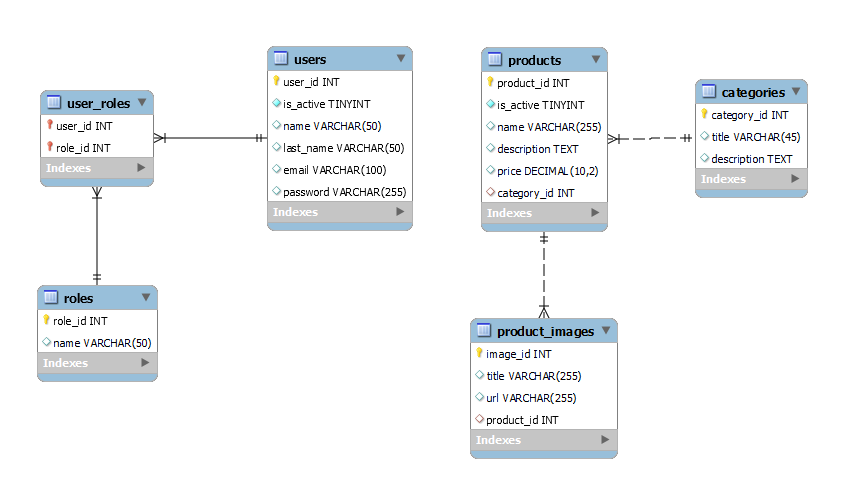
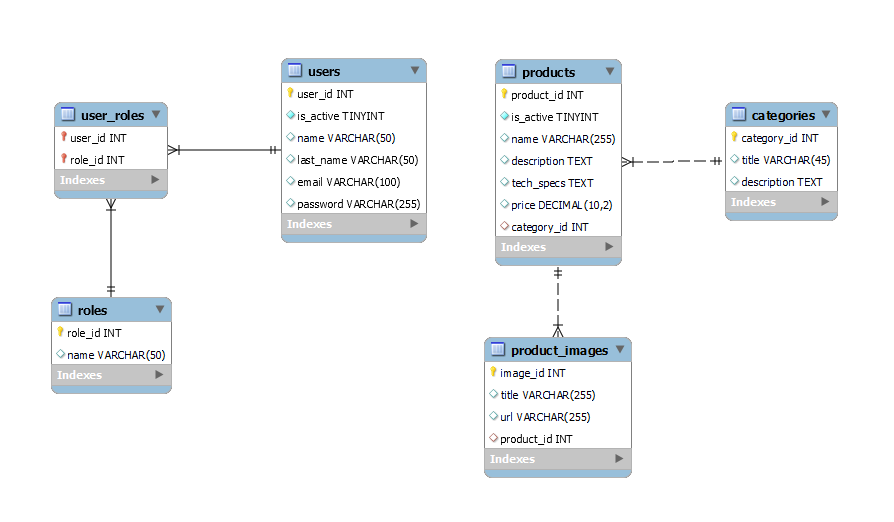
Actualización Final BackEnd Sprint 1

Changed region(s): [[0.5164, 0.0911, 0.9416, 0.9413], [0.0304, 0.1822, 0.2126, 0.7895], [0.1822, 0.0911, 0.486, 0.4858]]

diff --git a/PI-C3-G4/back_end/src/main/java/com/ctdg4/ProThechnics/controller/ProductController.java b/PI-C3-G4/back_end/src/main/java/com/ctdg4/ProThechnics/controller/ProductController.java
@@ -1,6 +1,7 @@
 package com.ctdg4.ProThechnics.controller;
 
 import com.ctdg4.ProThechnics.entity.Product;
+import com.ctdg4.ProThechnics.exception.DuplicateProductException;
 import com.ctdg4.ProThechnics.exception.ResourceNotFoundException;
 import com.ctdg4.ProThechnics.service.ProductService;
 import org.springframework.beans.factory.annotation.Autowired;
@@ -21,12 +22,16 @@ public class ProductController {
         this.productService = productService;
     }
 
-    @PostMapping
-    public ResponseEntity<Product> registerProduct(@RequestBody Product product) {
+    @PostMapping("/add")
+    public ResponseEntity<Product> registerProduct(@RequestBody Product product) throws DuplicateProductException {
+        List<Product> existingProduct = productService.findProductByNameLike(product.getName());
+        if (!existingProduct.isEmpty()) {
+            throw new DuplicateProductException("Product with name: '" + product.getName() + "' already exists.");
+        }
         return ResponseEntity.ok(productService.saveProduct(product));
     }
 
-    @GetMapping()
+    @GetMapping("/find/all")
     public ResponseEntity<List<Product>> listProducts() {
         return ResponseEntity.ok(productService.listAllProducts());
     }
@@ -37,11 +42,11 @@ public class ProductController {
     }
 
     @GetMapping("/find/name/{name}")
-    public ResponseEntity<Optional<Product>> findProductByEmail(@PathVariable String name) {
-        return ResponseEntity.ok(productService.findProductByName(name));
+    public ResponseEntity<List<Product>> findProductByEmail(@PathVariable String name) {
+        return ResponseEntity.ok(productService.findProductByNameLike(name));
     }
 
-    @DeleteMapping("/{id}")
+    @DeleteMapping("/delete/id/{product_id}")
     public ResponseEntity<String> deleteProduct(@PathVariable Long product_id) throws ResourceNotFoundException {
         Optional<Product> productSearched = productService.findProductById(product_id);
         if (productSearched.isPresent()) {
@@ -52,7 +57,7 @@ public class ProductController {
         }
     }
 
-    @PutMapping
+    @PutMapping("/update")
     public ResponseEntity<String> updateProduct(@RequestBody Product product) throws ResourceNotFoundException {
         Optional<Product> productSearched = productService.findProductById(product.getProduct_id());
         if (productSearched.isPresent()) {

diff --git a/PI-C3-G4/back_end/src/main/java/com/ctdg4/ProThechnics/service/ProductService.java b/PI-C3-G4/back_end/src/main/java/com/ctdg4/ProThechnics/service/ProductService.java
@@ -1,6 +1,7 @@
 package com.ctdg4.ProThechnics.service;
 
 import com.ctdg4.ProThechnics.entity.Product;
+import com.ctdg4.ProThechnics.exception.DuplicateProductException;
 import com.ctdg4.ProThechnics.repository.ProductRepository;
 import org.modelmapper.ModelMapper;
 import org.springframework.beans.factory.annotation.Autowired;
@@ -32,8 +33,8 @@ public class ProductService {
     public Optional<Product> findProductById(Long product_id){
         return productRepository.findById(product_id);
     }
-    public Optional<Product> findProductByName(String name){
-        return productRepository.findByName(name);
+    public List<Product> findProductByNameLike(String name){
+        return productRepository.findByNameLike('%' + name + '%');
     }
 
 }

diff --git a/PI-C3-G4/back_end/src/main/java/com/ctdg4/ProThechnics/exception/GlobalException.java b/PI-C3-G4/back_end/src/main/java/com/ctdg4/ProThechnics/exception/GlobalException.java
@@ -8,7 +8,12 @@ import org.springframework.web.bind.annotation.ExceptionHandler;
 @ControllerAdvice
 public class GlobalException {
     @ExceptionHandler({ResourceNotFoundException.class})
-    public ResponseEntity<String> handlerResourceNotFoundException(ResourceNotFoundException rnfe){
+    public ResponseEntity<String> handleResourceNotFoundException(ResourceNotFoundException rnfe){
         return ResponseEntity.status(HttpStatus.NOT_FOUND).body(rnfe.getMessage());
+    }
+
+    @ExceptionHandler({DuplicateProductException.class})
+    public ResponseEntity<String> handleDuplicateProductException(DuplicateProductException dpe){
+        return ResponseEntity.status(HttpStatus.CONFLICT).body(dpe.getMessage());
     }
 }

diff --git a/PI-C3-G4/back_end/src/main/java/com/ctdg4/ProThechnics/entity/ProductImage.java b/PI-C3-G4/back_end/src/main/java/com/ctdg4/ProThechnics/entity/ProductImage.java
@@ -3,6 +3,8 @@ package com.ctdg4.ProThechnics.entity;
 import jakarta.persistence.*;
 import lombok.*;
 
+import java.util.List;
+
 @Data
 @Entity
 @Table(name = "product_images")
@@ -14,6 +16,16 @@ public class ProductImage {
     private String title;
     @Column
     private String url;
+    @ManyToOne
+    @JoinColumn(name = "product_id", nullable = false)
+    private Product product;
 
-    // Falta completar
+    public ProductImage() {
+    }
+
+    public ProductImage(String title, String url, Product product) {
+        this.title = title;
+        this.url = url;
+        this.product = product;
+    }
 }

diff --git a/PI-C3-G4/back_end/src/main/java/com/ctdg4/ProThechnics/repository/ProductRepository.java b/PI-C3-G4/back_end/src/main/java/com/ctdg4/ProThechnics/repository/ProductRepository.java
@@ -4,10 +4,10 @@ import com.ctdg4.ProThechnics.entity.Product;
 import org.springframework.data.jpa.repository.JpaRepository;
 import org.springframework.stereotype.Repository;
 
-import java.util.Optional;
+import java.util.List;
 
 @Repository
 public interface ProductRepository extends JpaRepository<Product,Long> {
-    Optional<Product> findByName(String name);
+    List<Product> findByNameLike(String name);
 
 }

diff --git a/PI-C3-G4/back_end/src/main/java/com/ctdg4/ProThechnics/exception/DuplicateProductException.java b/PI-C3-G4/back_end/src/main/java/com/ctdg4/ProThechnics/exception/DuplicateProductException.java
@@ -1,0 +1,7 @@
+package com.ctdg4.ProThechnics.exception;
+
+public class DuplicateProductException extends Exception {
+    public DuplicateProductException(String message){
+        super(message);
+    }
+}
